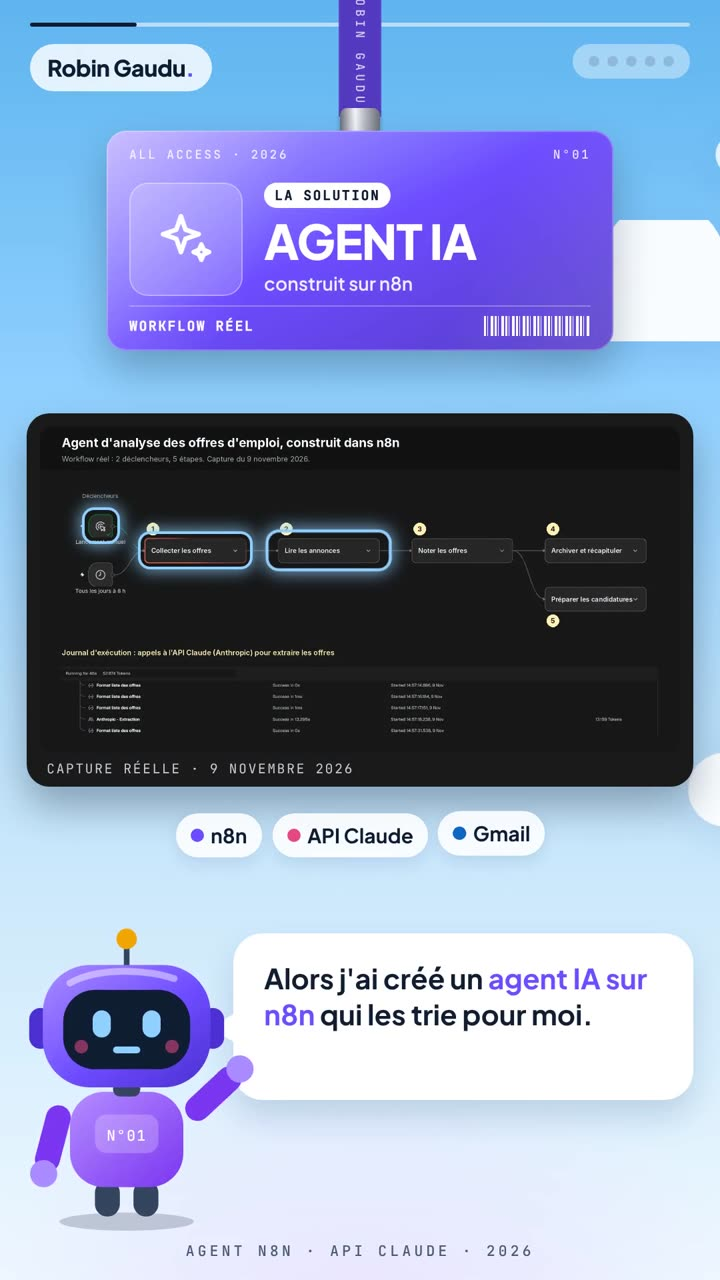
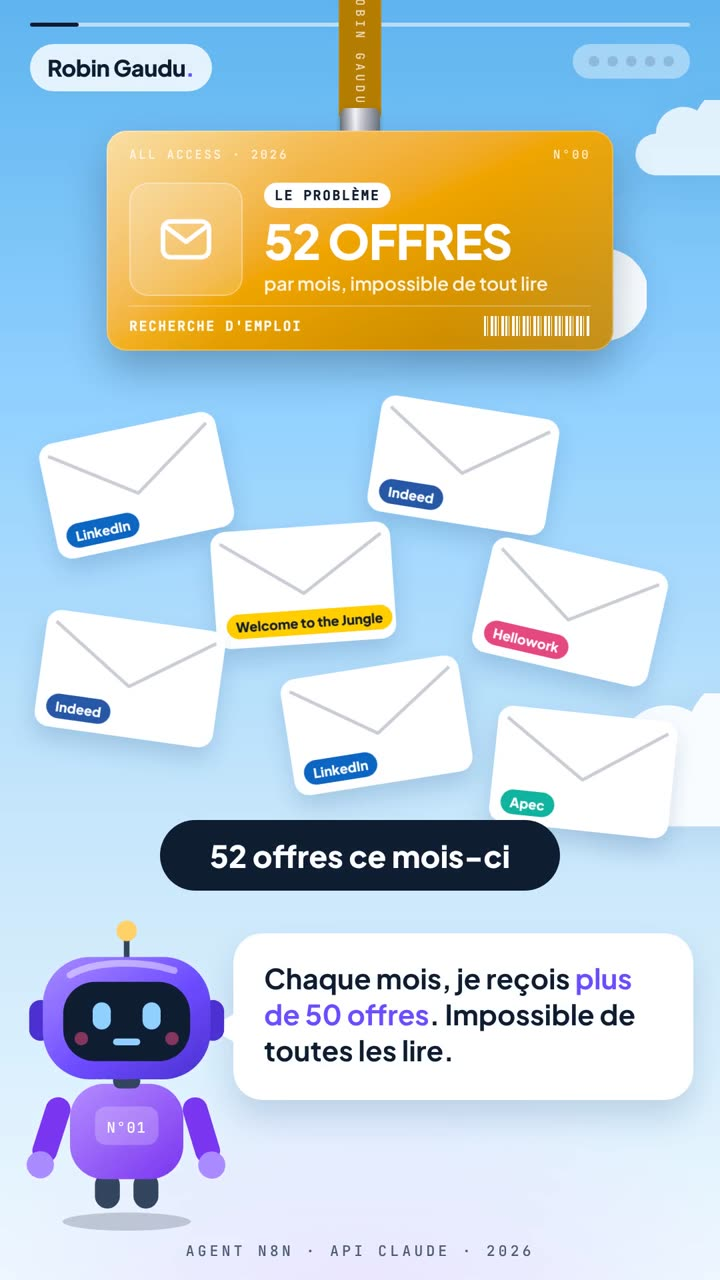
Chapitre vidéo épuré : titre + vidéo en grand avec bouton lecture
Claude-Session: https://claude.ai/code/session_015fM7BRnExScN5DmRwtFbTK

diff --git a/index.html b/index.html
@@ -185,14 +185,15 @@ body.is-detail .panel{opacity:1;transition-delay:.55s}
 .steps li{counter-increment:s;display:grid;grid-template-columns:34px 1fr;gap:10px;align-items:start;font-size:clamp(15.5px,1.12vw,17.5px);line-height:1.45}
 .steps li::before{content:counter(s);display:grid;place-items:center;width:28px;height:28px;border-radius:50%;background:var(--c);color:#fff;font-weight:800;font-size:13px}
 .steps li small{display:block;color:var(--mute);font-size:.88em}
-.vsplit{display:grid;grid-template-columns:min(44%,max(150px,calc((100vh - 2 * var(--pad) - 400px) * 9 / 16))) 1fr;gap:clamp(16px,1.6vw,24px);align-items:start;margin-top:4px}
-.vid{margin:0;border-radius:16px;overflow:hidden;background:#0f1d33;box-shadow:0 18px 40px -20px rgba(15,29,51,.6)}
-.vid video{display:block;width:100%;aspect-ratio:9/16;height:auto;background:#0f1d33}
-.vside p.txt{font-size:clamp(15px,1.08vw,17px);line-height:1.55}
-.vside .stats{grid-template-columns:1fr;gap:8px;margin-top:14px}
-.vside .stats div{display:flex;align-items:baseline;gap:10px;padding:10px 14px}
-.vside .stats span{margin-top:0}
-.panel h2.h-vid{font-size:clamp(26px,2.5vw,40px);margin-bottom:14px}
+.vid{--vh:max(280px,calc(100vh - 2 * var(--pad) - 336px));position:relative;margin:6px auto 0;height:var(--vh);width:calc(var(--vh) * 9 / 16);max-width:100%;border-radius:18px;overflow:hidden;background:#0f1d33;box-shadow:0 24px 50px -22px color-mix(in oklab,var(--c) 70%,#0f1d33),0 0 0 1px rgba(15,29,51,.06)}
+.vid video{display:block;width:100%;height:100%;object-fit:cover;background:#0f1d33}
+.vplay{position:absolute;inset:0;display:grid;place-items:center;background:linear-gradient(180deg,rgba(15,29,51,0) 40%,rgba(15,29,51,.35));cursor:pointer;transition:opacity .3s}
+.vplay svg{width:78px;height:78px;padding:20px 18px 20px 22px;border-radius:50%;background:var(--c);color:#fff;box-shadow:0 12px 30px -8px rgba(15,29,51,.6),0 0 0 8px rgba(255,255,255,.35);transition:transform .25s var(--soft)}
+.vplay:hover svg{transform:scale(1.08)}
+.vid.on .vplay{opacity:0;pointer-events:none}
+.panel h2.h-vid{font-size:clamp(26px,2.5vw,40px);margin-bottom:14px;text-align:center}
+.panel .inner:has(.vid) .p-kicker{justify-content:center}
+.panel .inner:has(.vid) .tag{display:none}
 .cap-h{display:inline-flex;align-items:center;gap:14px;justify-content:center;flex-wrap:wrap}
 .play{pointer-events:auto;position:relative;top:.1em;display:inline-flex;align-items:center;gap:7px;padding:6px 15px 6px 7px;border-radius:999px;background:var(--c,#6d4cff);color:#fff;font:700 15px/1 var(--sans);letter-spacing:0;box-shadow:0 10px 24px -10px color-mix(in oklab,var(--c,#6d4cff) 80%,#000);transition:transform .25s var(--soft),box-shadow .25s;animation:playPulse 2.4s ease-in-out infinite}
 .play svg{width:24px;height:24px;padding:5px;border-radius:50%;background:rgba(255,255,255,.22)}
@@ -323,8 +324,7 @@ body.loaded #loader{opacity:0;visibility:hidden}
   .d-top .pill{padding:7px 12px;font-size:12px}
   .d-bot{left:10px;right:10px;bottom:16px;justify-content:space-between}
   .d-hint{display:none}
-  .vsplit{grid-template-columns:1fr}
-  .vid{width:min(100%,calc((100vh - 470px) * 9 / 16),calc((100dvh - 470px) * 9 / 16));min-width:160px;margin:0 auto}
+  .vid{--vh:max(280px,calc(100dvh - 460px))}
 }
 @media (prefers-reduced-motion:reduce){
   *,*::before,*::after{animation-duration:.01s!important;animation-iteration-count:1!important;transition-duration:.2s!important}
@@ -440,9 +440,7 @@ const ITEMS = [
       chips:[['Claude',1],['ChatGPT',1],['Gemini',1],['Prompting',1],['Agents IA',1],['n8n'],['Zapier / Make'],['API Claude']] },
     { tag:'Chez Consentio', title:'IA en entreprise',
       bul:['Newsletters trilingues, tutoriels vidéo et analyse de données avec l\'IA générative','Des agents IA pour automatiser les e-mails clients','Un agent pour calculer l\'activité des clients sur la plateforme'] },
-    { tag:'Projet 1', title:"Agent d'offres d'emploi", video:['video/agent-offres-emploi.mp4','video/agent-offres-emploi.jpg',"Vidéo : mon agent d'offres d'emploi expliqué en 40 secondes"],
-      text:["Il lit mes alertes emploi dans Gmail, écarte les offres hors cible et note chaque offre sur 100 face à mon profil. Construit dans Claude puis dans n8n, il se lance seul chaque matin."],
-      stats:[['38','e-mails lus'],['52','offres extraites'],['32','offres notées']] },
+    { tag:'Projet 1', title:"Agent d'offres d'emploi", video:['video/agent-offres-emploi.mp4','video/agent-offres-emploi.jpg',"Vidéo : mon agent d'offres d'emploi expliqué en 40 secondes"], },
     { tag:'Projet 2', title:'Workflow HubSpot → IA',
       text:["Un nouveau lead arrive dans HubSpot : n8n anonymise ses données, l'API Claude rédige un e-mail de bienvenue dans sa langue, et un brouillon est créé dans Gmail. L'IA ne reçoit ni adresse e-mail ni numéro de téléphone."],
       steps:[['HubSpot','nouveau contact'],['n8n','anonymisation'],['Claude','rédaction'],['Gmail','brouillon à valider']] },
@@ -709,10 +707,9 @@ function sectionHTML(s){
   let h = `<p class="p-kicker mono"><b>${esc(it.title)}</b> · ${pad2(sec + 1)} / ${pad2(it.sections.length)}</p>`;
   h += s.avant ? `<p class="tag"><i>×</i><s>${esc(s.avant)}</s></p>` : `<p class="tag"><i>+</i><span>${esc(s.tag)}</span></p>`;
   h += `<h2${s.video ? ' class="h-vid"' : ''}>${esc(s.title)}</h2>`;
-  if (s.video) h += `<div class="vsplit"><figure class="vid"><video controls playsinline preload="metadata" poster="${s.video[1]}" aria-label="${esc(s.video[2])}"><source src="${s.video[0]}" type="video/mp4"></video></figure><div class="vside">`;
+  if (s.video) h += `<figure class="vid"><video playsinline preload="metadata" poster="${s.video[1]}" aria-label="${esc(s.video[2])}"><source src="${s.video[0]}" type="video/mp4"></video><button class="vplay" aria-label="Lire la vidéo"><svg viewBox="0 0 24 24" aria-hidden="true"><path d="M8 5.5v13l11-6.5z" fill="currentColor"/></svg></button></figure>`;
   if (s.text) h += [].concat(s.text).map(t => `<p class="txt">${esc(t)}</p>`).join('');
   if (s.stats) h += `<div class="stats">${s.stats.map(([a,b]) => `<div><strong>${esc(a)}</strong><span>${esc(b)}</span></div>`).join('')}</div>`;
-  if (s.video) h += `</div></div>`;
   if (s.bul) h += `<ul class="bul">${s.bul.map(x => `<li>${x.replace(/<(?!\/?b>)/g, '&lt;')}</li>`).join('')}</ul>`;
   if (s.steps) h += `<ol class="steps">${s.steps.map(([a,b]) => `<li><span>${esc(a)}${b ? `<small>${esc(b)}</small>` : ''}</span></li>`).join('')}</ol>`;
   if (s.chips) h += `<ul class="chips">${s.chips.map(([x,hl]) => `<li class="${hl ? 'hl' : ''}">${esc(x)}</li>`).join('')}</ul>`;
@@ -817,9 +814,12 @@ $('#hopPrev').onclick = () => hop(-1);
 $('#hopNext').onclick = () => hop(1);
 function playVideo(){
   const v = inner.querySelector('.vid video'); if (!v) return;
-  v.closest('.vid').scrollIntoView({ block:'nearest', behavior:'smooth' });
+  const f = v.closest('.vid');
+  f.scrollIntoView({ block:'nearest', behavior:'smooth' });
+  f.classList.add('on'); v.controls = true;
   const p = v.play(); if (p && p.catch) p.catch(() => {});
 }
+panel.addEventListener('click', e => { if (e.target.closest('.vplay')) { touchUser(); playVideo(); } });
 $('#capPlay').addEventListener('click', e => {
   e.stopPropagation(); touchUser();
   const it = ITEMS[cur]; if (typeof it.videoSec !== 'number' || lock || mode !== 'carousel') return;
